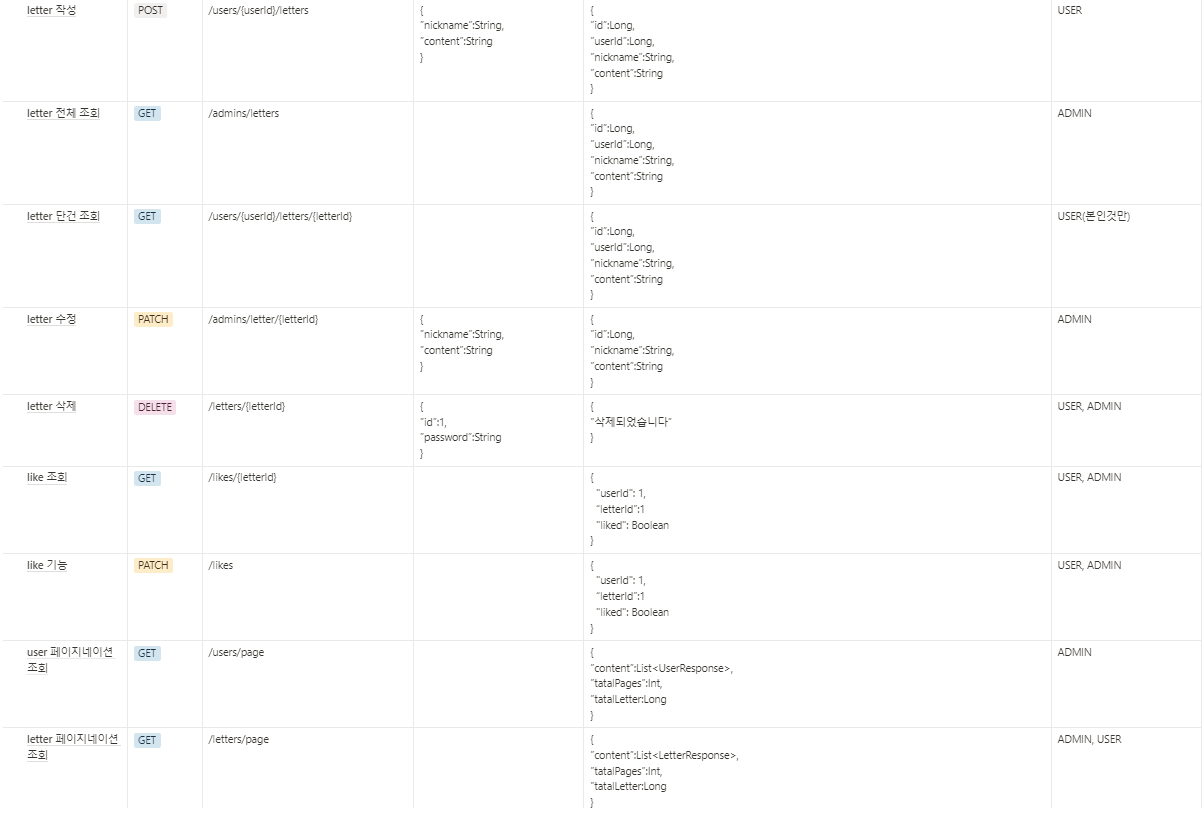
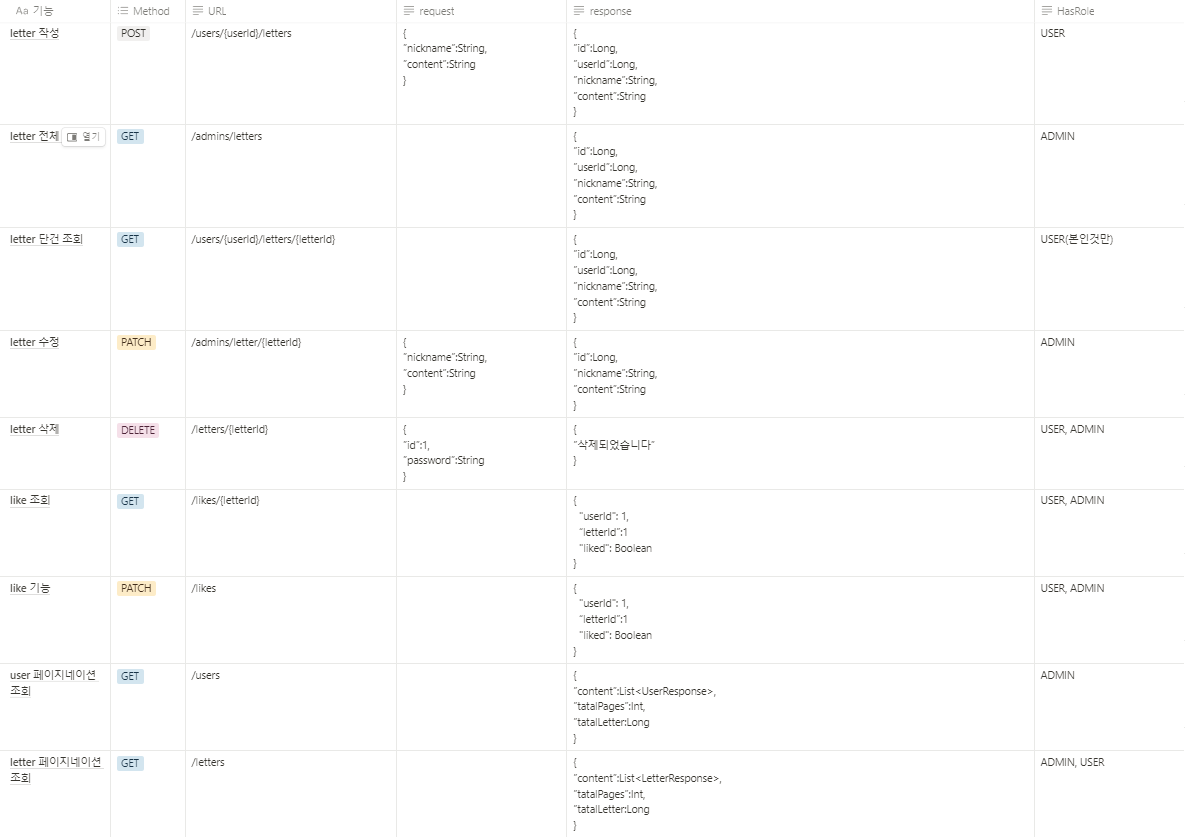
[feat] 경로 수정

diff --git a/src/main/kotlin/com/example/letter/domain/letter/service/LetterServiceImpl.kt b/src/main/kotlin/com/example/letter/domain/letter/service/LetterServiceImpl.kt
@@ -3,6 +3,7 @@ package com.example.letter.domain.letter.service
 import com.example.letter.common.exception.InvalidPasswordException
 import com.example.letter.common.exception.ModelNotFoundException
 import com.example.letter.domain.letter.dto.DeleteLetterRequest
+import com.example.letter.domain.letter.dto.LetterPageResponse
 import com.example.letter.domain.letter.dto.LetterRequest
 import com.example.letter.domain.letter.dto.LetterResponse
 import com.example.letter.domain.letter.model.Letter
@@ -10,10 +11,12 @@ import com.example.letter.domain.letter.model.toResponse
 import com.example.letter.domain.letter.repository.LetterRepository
 import com.example.letter.domain.like.repository.LikeRepository
 import com.example.letter.domain.user.repository.UserRepository
+import org.springframework.data.domain.Page
+import org.springframework.data.domain.PageRequest
+import org.springframework.data.domain.Sort
 import org.springframework.data.repository.findByIdOrNull
 import org.springframework.stereotype.Service
 import org.springframework.transaction.annotation.Transactional
-import java.nio.file.AccessDeniedException
 
 @Service
 class LetterServiceImpl(
@@ -29,6 +32,22 @@ class LetterServiceImpl(
         return letter.toResponse()
     }
 
+    override fun getLetterPage(
+        pageNumber: Int,
+        pageSize: Int,
+        sort: String?,
+        direction: Sort.Direction
+    ): LetterPageResponse {
+        val pageable: PageRequest = PageRequest.of(pageNumber - 1, pageSize, direction, sort)
+        val lettersPage: Page<Letter> = letterRepository.findAll(pageable)
+        val letterResponseList: List<LetterResponse> = lettersPage.content.map { it.toResponse() }
+
+        return LetterPageResponse(
+            content = letterResponseList,
+            totalPages = lettersPage.totalPages,
+            totalLetter = lettersPage.totalElements
+        )
+    }
 
     @Transactional
     override fun createLetter(userId: Long, request: LetterRequest): LetterResponse {

diff --git a/src/main/kotlin/com/example/letter/domain/admin/controller/AdminController.kt b/src/main/kotlin/com/example/letter/domain/admin/controller/AdminController.kt
@@ -3,7 +3,6 @@ package com.example.letter.domain.admin.controller
 import com.example.letter.common.exception.dto.BaseResponse
 import com.example.letter.common.security.jwt.UserPrincipal
 import com.example.letter.domain.admin.service.AdminService
-import com.example.letter.domain.letter.dto.LetterPageResponse
 import com.example.letter.domain.letter.dto.LetterRequest
 import com.example.letter.domain.letter.dto.LetterResponse
 import com.example.letter.domain.user.dto.UserPageResponse
@@ -30,20 +29,6 @@ class AdminController(
         return ResponseEntity
             .status(HttpStatus.OK)
             .body(adminService.getLetterList())
-    }
-
-    @Operation(summary = "letter 전체 페이지 네이션 조회")
-    @PreAuthorize("hasRole('ADMIN') or hasRole('USER')")
-    @GetMapping("/letters/page")
-    fun getLetterPage(
-        @RequestParam(defaultValue = "1") pageNumber: Int,
-        @RequestParam(defaultValue = "5") pageSize: Int,
-        @RequestParam(defaultValue = "createdAt") sort: String?,
-        @RequestParam direction: Sort.Direction
-    ): ResponseEntity<LetterPageResponse> {
-        return ResponseEntity
-            .status(HttpStatus.OK)
-            .body(adminService.getLetterPage(pageNumber, pageSize, sort, direction))
     }
 
     @Operation(summary = "letter 수정 ONLY ADMIN")
@@ -83,7 +68,7 @@ class AdminController(
 
     @Operation(summary = "user 전체 페이지 네이션 조회 ONLY ADMIN")
     @PreAuthorize("hasRole('ADMIN')")
-    @GetMapping("/users/page")
+    @GetMapping("/users")
     fun getUserPage(
         @RequestParam(defaultValue = "1") pageNumber: Int,
         @RequestParam(defaultValue = "5") pageSize: Int,

diff --git a/src/main/kotlin/com/example/letter/domain/letter/controller/LetterController.kt b/src/main/kotlin/com/example/letter/domain/letter/controller/LetterController.kt
@@ -2,11 +2,13 @@ package com.example.letter.domain.letter.controller
 
 import com.example.letter.common.security.jwt.UserPrincipal
 import com.example.letter.domain.letter.dto.DeleteLetterRequest
+import com.example.letter.domain.letter.dto.LetterPageResponse
 import com.example.letter.domain.letter.dto.LetterRequest
 import com.example.letter.domain.letter.dto.LetterResponse
 import com.example.letter.domain.letter.service.LetterService
 import io.swagger.v3.oas.annotations.Operation
 import jakarta.validation.Valid
+import org.springframework.data.domain.Sort
 import org.springframework.http.HttpStatus
 import org.springframework.http.ResponseEntity
 import org.springframework.security.access.prepost.PreAuthorize
@@ -17,6 +19,19 @@ import org.springframework.web.bind.annotation.*
 class LetterController(
     private val letterService: LetterService
 ) {
+    @Operation(summary = "letter 전체 페이지 네이션 조회")
+    @PreAuthorize("hasRole('ADMIN') or hasRole('USER')")
+    @GetMapping("/letters")
+    fun getLetterPage(
+        @RequestParam(defaultValue = "1") pageNumber: Int,
+        @RequestParam(defaultValue = "5") pageSize: Int,
+        @RequestParam(defaultValue = "createdAt") sort: String?,
+        @RequestParam direction: Sort.Direction
+    ): ResponseEntity<LetterPageResponse> {
+        return ResponseEntity
+            .status(HttpStatus.OK)
+            .body(letterService.getLetterPage(pageNumber, pageSize, sort, direction))
+    }
 
     @Operation(summary = "letter 단건 조회")
     @PreAuthorize("#userPrincipal.id == #userId")

diff --git a/src/main/kotlin/com/example/letter/domain/admin/service/AdminServiceImpl.kt b/src/main/kotlin/com/example/letter/domain/admin/service/AdminServiceImpl.kt
@@ -33,24 +33,6 @@ class AdminServiceImpl(
         return letterRepository.findAll().map { it.toResponse() }
     }
 
-    override fun getLetterPage(
-        pageNumber: Int,
-        pageSize: Int,
-        sort: String?,
-        direction: Sort.Direction
-    ): LetterPageResponse {
-        val pageable: PageRequest = PageRequest.of(pageNumber - 1, pageSize, direction, sort)
-        val lettersPage: Page<Letter> = letterRepository.findAll(pageable)
-        val letterResponseList: List<LetterResponse> = lettersPage.content.map { it.toResponse() }
-
-        return LetterPageResponse(
-            content = letterResponseList,
-            totalPages = lettersPage.totalPages,
-            totalLetter = lettersPage.totalElements
-        )
-    }
-
-
     @Transactional
     override fun adminUpdateLetter(userId: Long, letterId: Long, request: LetterRequest): LetterResponse {
         val letter = letterRepository.findByIdOrNull(letterId) ?: throw ModelNotFoundException("Letter", letterId)

diff --git a/src/main/kotlin/com/example/letter/domain/letter/service/LetterService.kt b/src/main/kotlin/com/example/letter/domain/letter/service/LetterService.kt
@@ -1,12 +1,16 @@
 package com.example.letter.domain.letter.service
 
 import com.example.letter.domain.letter.dto.DeleteLetterRequest
+import com.example.letter.domain.letter.dto.LetterPageResponse
 import com.example.letter.domain.letter.dto.LetterRequest
 import com.example.letter.domain.letter.dto.LetterResponse
+import org.springframework.data.domain.Sort
 
 interface LetterService {
 
     fun getLetter(userId: Long, letterId: Long): LetterResponse
+
+    fun getLetterPage(pageNumber: Int, pageSize: Int, sort: String?, direction: Sort.Direction): LetterPageResponse
 
     fun createLetter(userId: Long, request: LetterRequest): LetterResponse
 

diff --git a/src/main/kotlin/com/example/letter/domain/admin/service/AdminService.kt b/src/main/kotlin/com/example/letter/domain/admin/service/AdminService.kt
@@ -1,6 +1,5 @@
 package com.example.letter.domain.admin.service
 
-import com.example.letter.domain.letter.dto.LetterPageResponse
 import com.example.letter.domain.letter.dto.LetterRequest
 import com.example.letter.domain.letter.dto.LetterResponse
 import com.example.letter.domain.user.dto.UserPageResponse
@@ -20,6 +19,4 @@ interface AdminService {
     fun getUserPage(pageNumber: Int, pageSize: Int, sort: String?, direction: Sort.Direction): UserPageResponse
 
     fun updateUser(userId: Long, request: UserUpdate): String
-
-    fun getLetterPage(pageNumber: Int, pageSize: Int, sort: String?, direction: Sort.Direction): LetterPageResponse
 }
